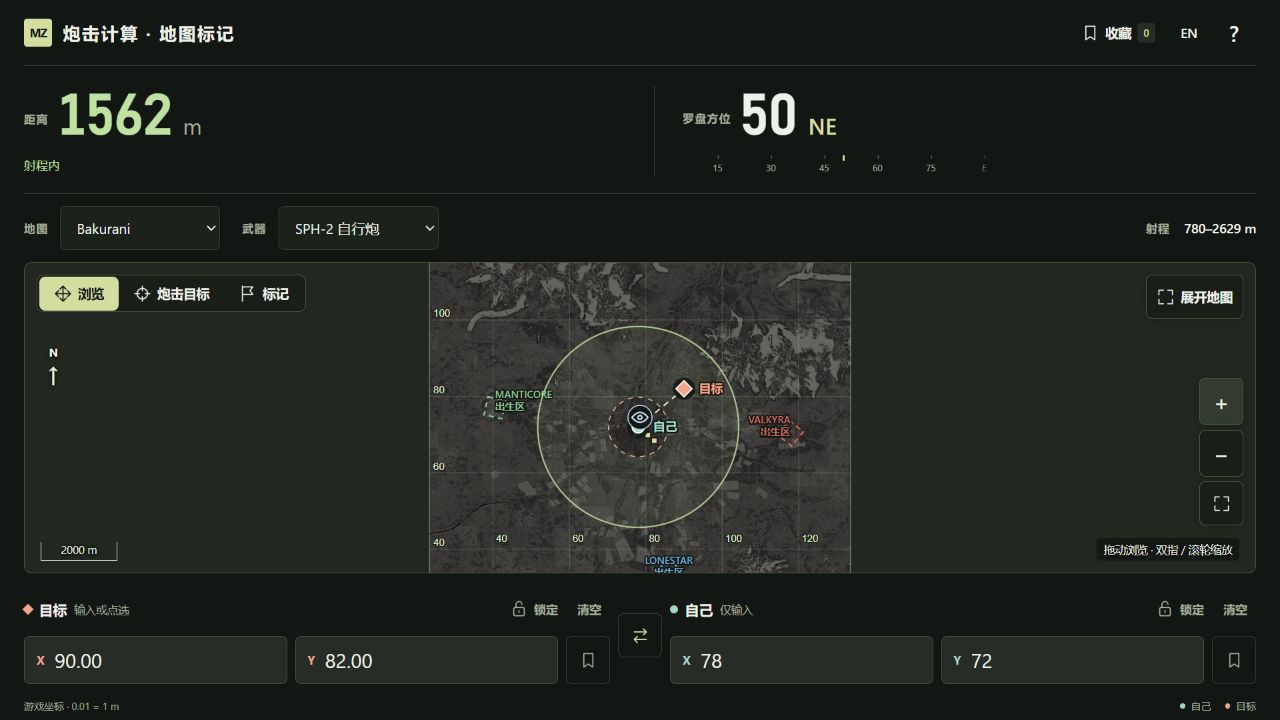
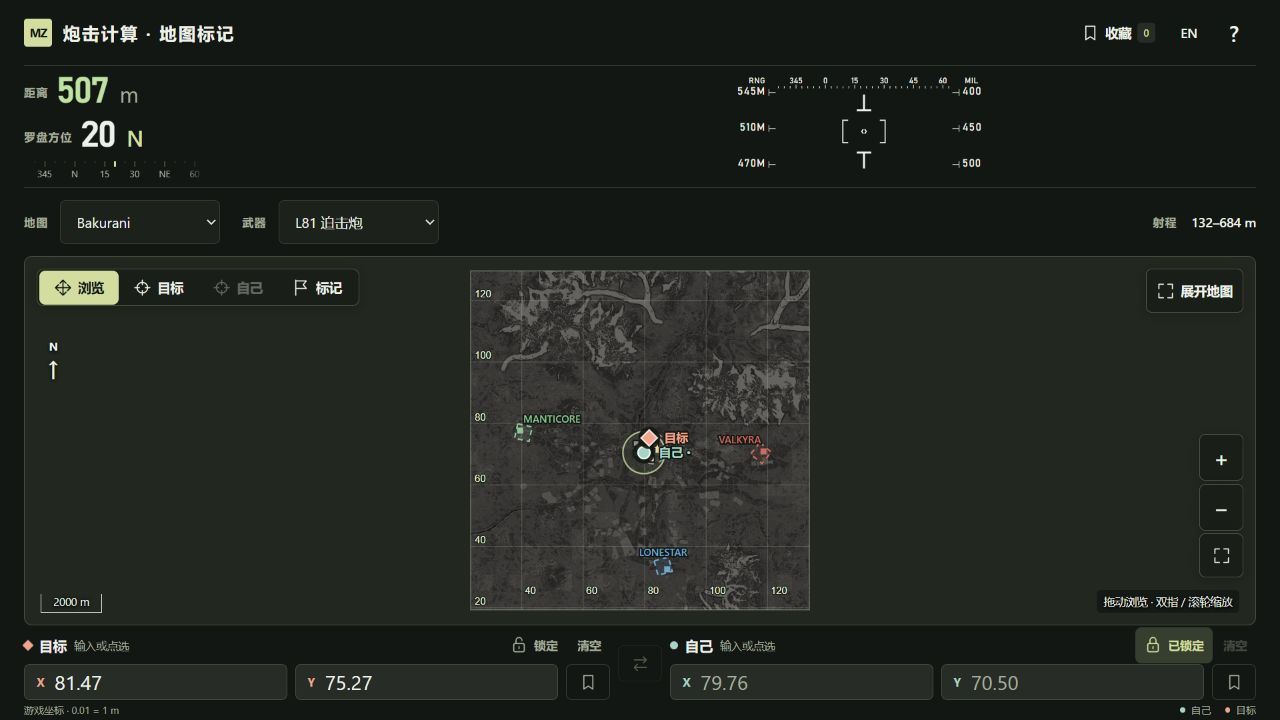
correction

diff --git a/app.js b/app.js
@@ -1,9 +1,9 @@
-import { maps, outsideControlZone, tileBounds, towers, landmarks, controlZones, spawnPoints, spawnAreas, weapons, markerTypes, validMarker, parseCoordinate, validPoint, solution, heading, screenToWorld } from './core.mjs?v=map-calibration-6';
+import { maps, outsideControlZone, tileBounds, towers, landmarks, controlZones, spawnPoints, spawnAreas, weapons, mortarRange, mortarMil, markerTypes, validMarker, parseCoordinate, validPoint, solution, heading, screenToWorld } from './core.mjs?v=mortar-sight-6';
 
 const $ = id => document.getElementById(id);
 const strings = {
   zh: { saved:'收藏',distance:'距离',bearing:'罗盘方位',map:'地图',weapon:'武器',range:'射程',browse:'浏览',place:'炮击目标',expand:'展开地图',collapse:'返回计算',origin:'自己',target:'目标',inputOnly:'仅输入',inputOrMap:'输入或点选',lock:'锁定',locked:'已锁定',clear:'清空',save:'保存',name:'给坐标起个名字',about:'使用说明',coordinateHint:'游戏坐标 · 0.01 = 1 m',localNote:'仅保存在此浏览器，清除网站数据会删除收藏。',help1:'先输入自己坐标，再输入目标，或切换「炮击目标」点选地图。锁定后需先解锁才能修改或清空。',help2:'实线圈是最大射程，虚线圈内是过近区域。距离是平面距离，射程数据为社区参考值。',help3:'浏览模式：拖动、双指或滚轮缩放。键盘：方向键移动，+/− 缩放；放置模式下 Enter 放在地图中心。',help4:'展开地图可专心看图，点位与缩放会保留。收藏按地图分别保存，可载入自己或目标。',attribution:'地图及射程参考',unofficial:'非官方玩家工具。游戏地图与商标归各自权利人所有。',in:'射程内',near:'过近 · 小于最小射程',far:'超出最大射程',empty:'输入自己与目标坐标',same:'同一点 · 无方位',browseHint:'拖动浏览 · 双指 / 滚轮缩放',placeHint:'地图已固定 · 点选目标',lockedHint:'目标已锁定 · 解锁后可放置',invalid:'请输入范围内坐标（最多 2 位小数）',noSaved:'这张地图还没有收藏',loadOrigin:'设为自己',loadTarget:'设为目标',remove:'删除',undo:'撤销',deleted:'已删除收藏',savedDone:'坐标已收藏',storageError:'浏览器无法保存数据；本次操作仍可使用。',storageCorrupt:'本地数据无法读取，原数据已保留。',unlockFirst:'请先解锁这个坐标',outside:'请在地图边界内选择炮击目标',loading:'地图加载中…',mapError:'部分地图图片未能加载，请重试',retry:'重试',yourX:'自己 X',yourY:'自己 Y',targetX:'目标 X',targetY:'目标 Y',saveOrigin:'收藏自己坐标',saveTarget:'收藏目标坐标',zoomIn:'放大',zoomOut:'缩小',fit:'全图',close:'关闭',mapLabel:'地图：方向键浏览，加减号缩放；放置模式按回车选择中心点',rangeCircle:'最大射程',minCircle:'最小射程',badFields:'请检查坐标输入' },
-  en: { saved:'Saved',distance:'DISTANCE',bearing:'BEARING',map:'MAP',weapon:'WEAPON',range:'RANGE',browse:'Browse',place:'Artillery target',expand:'Expand map',collapse:'Back to calculator',origin:'You',target:'Target',inputOnly:'Type only',inputOrMap:'Type or tap',lock:'Lock',locked:'Locked',clear:'Clear',save:'Save',name:'Name this position',about:'How to use',coordinateHint:'Game coordinates · 0.01 = 1 m',localNote:'Saved only in this browser. Clearing site data removes saved positions.',help1:'Enter your position, then enter a target or switch to Artillery target and tap the map. Unlock a position before editing or clearing it.',help2:'The solid circle is maximum range. The dashed circle marks the minimum range. Distance is horizontal; weapon ranges are community reference values.',help3:'Browse: drag, pinch or scroll to zoom. Keyboard: arrows to pan, +/− to zoom; Enter places the target at the map center in placement mode.',help4:'Expand the map to browse with your positions and zoom preserved. Saved positions are grouped by map and can be loaded as you or the target.',attribution:'Maps and range data',unofficial:'Unofficial fan tool. Game maps and trademarks belong to their respective owners.',in:'Within range',near:'Too close · below minimum',far:'Beyond maximum range',empty:'Enter your position and target',same:'Same position · no bearing',browseHint:'Drag to pan · pinch / scroll to zoom',placeHint:'Map fixed · tap to place target',lockedHint:'Target locked · unlock to place',invalid:'Enter coordinates within bounds (up to 2 decimals)',noSaved:'No saved positions on this map',loadOrigin:'Set as you',loadTarget:'Set as target',remove:'Delete',undo:'Undo',deleted:'Position deleted',savedDone:'Position saved',storageError:'Browser storage unavailable; this session still works.',storageCorrupt:'Saved data could not be read. Original data preserved.',unlockFirst:'Unlock this position first',outside:'Place the target within the map boundary',loading:'Loading map…',mapError:'Some map images could not load. Please retry.',retry:'Retry',yourX:'Your X',yourY:'Your Y',targetX:'Target X',targetY:'Target Y',saveOrigin:'Save your position',saveTarget:'Save target position',zoomIn:'Zoom in',zoomOut:'Zoom out',fit:'Fit map',close:'Close',mapLabel:'Map: arrow keys to pan, plus/minus to zoom; Enter places a target at the center in placement mode',rangeCircle:'Maximum range',minCircle:'Minimum range',badFields:'Check coordinate inputs' },
+  en: { saved:'Saved',distance:'DIST',bearing:'BEARING',map:'MAP',weapon:'WEAPON',range:'RANGE',browse:'Browse',place:'Artillery target',expand:'Expand map',collapse:'Back to calculator',origin:'You',target:'Target',inputOnly:'Type only',inputOrMap:'Type or tap',lock:'Lock',locked:'Locked',clear:'Clear',save:'Save',name:'Name this position',about:'How to use',coordinateHint:'Game coordinates · 0.01 = 1 m',localNote:'Saved only in this browser. Clearing site data removes saved positions.',help1:'Enter your position, then enter a target or switch to Artillery target and tap the map. Unlock a position before editing or clearing it.',help2:'The solid circle is maximum range. The dashed circle marks the minimum range. Distance is horizontal; weapon ranges are community reference values.',help3:'Browse: drag, pinch or scroll to zoom. Keyboard: arrows to pan, +/− to zoom; Enter places the target at the map center in placement mode.',help4:'Expand the map to browse with your positions and zoom preserved. Saved positions are grouped by map and can be loaded as you or the target.',attribution:'Maps and range data',unofficial:'Unofficial fan tool. Game maps and trademarks belong to their respective owners.',in:'Within range',near:'Too close · below minimum',far:'Beyond maximum range',empty:'Enter your position and target',same:'Same position · no bearing',browseHint:'Drag to pan · pinch / scroll to zoom',placeHint:'Map fixed · tap to place target',lockedHint:'Target locked · unlock to place',invalid:'Enter coordinates within bounds (up to 2 decimals)',noSaved:'No saved positions on this map',loadOrigin:'Set as you',loadTarget:'Set as target',remove:'Delete',undo:'Undo',deleted:'Position deleted',savedDone:'Position saved',storageError:'Browser storage unavailable; this session still works.',storageCorrupt:'Saved data could not be read. Original data preserved.',unlockFirst:'Unlock this position first',outside:'Place the target within the map boundary',loading:'Loading map…',mapError:'Some map images could not load. Please retry.',retry:'Retry',yourX:'Your X',yourY:'Your Y',targetX:'Target X',targetY:'Target Y',saveOrigin:'Save your position',saveTarget:'Save target position',zoomIn:'Zoom in',zoomOut:'Zoom out',fit:'Fit map',close:'Close',mapLabel:'Map: arrow keys to pan, plus/minus to zoom; Enter places a target at the center in placement mode',rangeCircle:'Maximum range',minCircle:'Minimum range',badFields:'Check coordinate inputs' },
 };
 const storageKey = 'mz-wardogs-v1';
 Object.assign(strings.zh,{appTitle:'炮击计算 · 地图标记',swap:'互换自己与目标坐标',swapLocked:'先解锁坐标再互换'});
@@ -97,7 +97,8 @@ function update() {
   const result = origin && target ? solution(origin,target,weapons[weaponId]) : null;
   $('distance').textContent = result ? String(Math.round(result.distance)) : '—';
   $('distance').closest('.metric').dataset.status = result?.status || '';
-  $('range-status').textContent = result ? (result.bearing === null ? t('same') : t(result.status)) : t(document.querySelector('[aria-invalid=true]') ? 'badFields' : 'empty');
+  $('range-status').textContent = result ? (result.bearing === null ? t('same') : '') : t(document.querySelector('[aria-invalid=true]') ? 'badFields' : 'empty');
+  $('range-status').hidden = !$('range-status').textContent;
   const h = heading(result?.bearing ?? null);
   $('bearing').textContent = h.degrees; $('direction').textContent = h.direction;
   $('compass').replaceChildren();
@@ -110,13 +111,37 @@ function update() {
     $('compass').append(tick);
   }
   $('distance-ruler').replaceChildren();
-  $('distance-ruler').hidden = !result;
-  if(result) for(let value=Math.max(0,Math.round(result.distance/100)*100-200);value<=result.distance+200;value+=100) {
-    const tick=document.createElement('span');
-    tick.className=value%200===0?'major':'minor';
-    tick.style.top=`${50+(result.distance-value)*.17}%`;
-    tick.textContent=value%200===0?String(value):'';
-    $('distance-ruler').append(tick);
+  const mil=result && weaponId==='mortar' ? mortarMil(result.distance) : null;
+  $('distance-ruler').hidden = !result || weaponId!=='mortar';
+  if(result && weaponId==='mortar') {
+    // ponytail: native SVG at screenshot coordinates; no fitted ballistics or extrapolated labels.
+    const first=mil===null ? 150 : Math.max(150,Math.min(850,Math.round(mil/50)*50-50));
+    const top=(mil===null ? 440 : Math.min(440,576+(first-mil)*2.18-24))-24;
+    const bottom=mil===null ? 732 : Math.max(712,576+(first+100-mil)*2.18+24);
+    const sight=svg('svg',{viewBox:`600 ${top} 848 ${bottom-top}`,role:'img','aria-label':lang==='zh' ? 'L81 游戏瞄具刻度' : 'L81 game sight scale'});
+    sight.append(svg('title',{},mil===null ? (lang==='zh' ? '距离超出截图刻度范围（80–684 m）' : 'Outside screenshot scale (80–684 m)') : `${Math.round(result.distance)} m · ${mil.toFixed(1)} MIL`));
+    const compass=svg('g',{class:'sight-compass'});
+    compass.append(svg('text',{class:'sight-unit',x:700,y:top+20,'text-anchor':'middle'},'RNG'),svg('text',{class:'sight-unit',x:1350,y:top+20,'text-anchor':'middle'},'MIL'));
+    for(let angle=Math.ceil((center-45)/3)*3;angle<=center+45;angle+=3) {
+      const x=1024+(angle-center)*5.93, major=angle%15===0;
+      compass.append(svg('path',{class:'sight-tick',d:`M${x} ${top+(major?25:29)}V${top+35}`}));
+      if(major) compass.append(svg('text',{class:'sight-bearing',x,y:top+20,'text-anchor':'middle'},String((angle%360+360)%360)));
+    }
+    sight.append(compass);
+    sight.append(svg('path',{class:'sight-reticle',d:'M1024 464V512 M1002 512h44 M1024 688V640 M1002 640h44'}));
+    sight.append(svg('path',{class:'sight-brackets',d:'M976 542h-16v68h16 M1072 542h16v68h-16 M1022 569l-5 7 5 7 M1026 569l5 7-5 7'}));
+    if(mil!==null) {
+      for(let value=first;value<=first+100;value+=50) {
+        const range=mortarRange(value), y=576+(value-mil)*2.18;
+        const row=svg('g',{'data-mil':value});
+        row.append(svg('text',{x:726,y:y+6,'text-anchor':'end'},range===null?'---':`${range}M`),svg('text',{x:1322,y:y+6},range===null?'---':String(value)));
+        row.append(svg('path',{class:'sight-tick',d:`M736 ${y-10}v20 M736 ${y}h20 M1312 ${y-10}v20 M1312 ${y}h-20`}));
+        sight.append(row);
+      }
+    } else {
+      sight.append(svg('text',{class:'sight-unavailable',x:1024,y:710,'text-anchor':'middle'},lang==='zh'?'超出截图刻度范围':'Outside captured scale'));
+    }
+    $('distance-ruler').append(sight);
   }
   $('weapon-range').textContent = `${weapons[weaponId].min}–${weapons[weaponId].max} m`;
   $('saved-count').textContent = saved.filter(p => p.mapId === mapId).length;

diff --git a/panda-skateboard.html b/panda-skateboard.html
@@ -1,0 +1,111 @@
+<!doctype html>
+<html lang="zh-CN">
+<meta charset="utf-8">
+<meta name="viewport" content="width=device-width, initial-scale=1">
+<title>熊猫滑板日记</title>
+<style>
+  * { box-sizing: border-box; }
+  body { margin: 0; min-height: 100svh; display: grid; place-items: center; background: #edf1e9; color: #253c35; font-family: system-ui, "Microsoft YaHei", sans-serif; padding: 24px; }
+  main { width: min(100%, 1060px); position: relative; overflow: hidden; border-radius: 28px; background: #f9f7ee; box-shadow: 0 24px 80px #233d3410; }
+  header { position: absolute; z-index: 1; top: 32px; left: 38px; right: 38px; display: flex; justify-content: space-between; align-items: center; gap: 16px; font-size: 13px; letter-spacing: 2px; }
+  header span:last-child { font-size: 10px; letter-spacing: 3px; }
+  h1 { position: absolute; top: 87px; left: 38px; z-index: 1; margin: 0; font-size: clamp(24px, 4.2vw, 46px); font-weight: 800; letter-spacing: -2px; line-height: 1.3; }
+  h1 small { display: block; margin-top: 14px; font-size: 11px; font-weight: 500; letter-spacing: 3px; }
+  svg { display: block; width: 100%; height: auto; }
+  footer { display: flex; align-items: center; justify-content: space-between; padding: 18px 38px 25px; gap: 16px; font-size: 12px; }
+  footer p { margin: 0; letter-spacing: 1px; }
+  .pause { display: inline-flex; align-items: center; gap: 8px; cursor: pointer; padding: 10px 14px; border: 1px solid #c5d1c5; border-radius: 30px; white-space: nowrap; }
+  input { accent-color: #2b6957; width: 16px; height: 16px; margin: 0; }
+  main:has(input:checked) svg * { animation-play-state: paused !important; }
+  .rider { animation: cruise 3s ease-in-out infinite; transform-origin: 525px 465px; }
+  .body { animation: bob 1.4s ease-in-out infinite; transform-origin: 527px 419px; }
+  .head { animation: nod 1.4s ease-in-out infinite; transform-origin: 546px 287px; }
+  .kick { animation: push 3s ease-in-out infinite; transform-origin: 498px 363px; }
+  .scarf { animation: flutter .7s ease-in-out infinite alternate; transform-origin: 493px 292px; }
+  .wheel { transform-box: fill-box; transform-origin: center; animation: spin .65s linear infinite; }
+  .road { animation: roll 1.15s linear infinite; }
+  .trees { animation: roll 10s linear infinite; }
+  .cloud { animation: drift 8s ease-in-out infinite alternate; }
+  .wind { animation: wind 1.5s ease-out infinite; }
+  .shadow { animation: shadow 3s ease-in-out infinite; transform-origin: 530px 488px; }
+  @keyframes spin { to { transform: rotate(360deg); } }
+  @keyframes roll { to { transform: translateX(-400px); } }
+  @keyframes cruise { 0%, 100% { transform: translateX(-8px) rotate(-1deg); } 50% { transform: translateX(12px) rotate(1deg); } }
+  @keyframes bob { 0%, 100% { transform: translateY(0); } 50% { transform: translateY(5px); } }
+  @keyframes nod { 0%, 100% { transform: rotate(-3deg); } 50% { transform: rotate(2deg); } }
+  @keyframes push { 0%, 12%, 80%, 100% { transform: rotate(0); } 35% { transform: rotate(28deg); } 55% { transform: rotate(42deg); } }
+  @keyframes flutter { to { transform: rotate(-9deg) scaleX(.94); } }
+  @keyframes drift { to { transform: translateX(-25px); } }
+  @keyframes wind { 0% { opacity: 0; transform: translateX(20px); } 30% { opacity: .7; } 100% { opacity: 0; transform: translateX(-65px); } }
+  @keyframes shadow { 50% { transform: translateX(12px) scaleX(.95); opacity: .65; } }
+  @media (prefers-reduced-motion: reduce) { svg * { animation: none !important; } }
+  @media (max-width: 600px) { body { padding: 12px; } main { border-radius: 20px; } header { top: 20px; left: 22px; right: 22px; font-size: 10px; } header span:last-child { font-size: 8px; letter-spacing: 1px; } h1 { top: 62px; left: 22px; font-size: 25px; } h1 small { font-size: 8px; margin-top: 7px; letter-spacing: 1px; } footer { padding: 14px 20px 20px; font-size: 10px; } svg { min-height: 390px; object-fit: cover; } }
+</style>
+<main>
+  <header><span>● 熊猫滑板日记</span><span>PANDA SKATE CLUB / 001</span></header>
+  <h1>风里，有点快乐。<small>LESS HURRY. MORE ROLLING.</small></h1>
+  <svg viewBox="0 0 1060 580" role="img" aria-labelledby="scene-title scene-desc">
+    <title id="scene-title">熊猫在公园里滑滑板</title>
+    <desc id="scene-desc">戴绿色头盔、系橙色围巾的熊猫一脚站在滑板上，一脚周期性向后蹬地。滑轮转动，树木和路面向后移动。</desc>
+    <defs>
+      <linearGradient id="sky" x2="0" y2="1"><stop stop-color="#e5efe4"/><stop offset="1" stop-color="#f0f3e4"/></linearGradient>
+      <linearGradient id="helmet" x2=".8" y2="1"><stop stop-color="#67a991"/><stop offset="1" stop-color="#34755f"/></linearGradient>
+      <g id="tree"><path d="M53 390V308" stroke="#9db7a0" stroke-width="5"/><path d="M53 273C12 302 8 351 53 350C96 351 96 309 53 273" fill="#bfd2b8"/><path d="M53 322l-15-12m15 24 16-16" stroke="#a1bc9e" stroke-width="3" fill="none"/></g>
+      <g id="road-mark" stroke="#c5c9b9" stroke-width="3" stroke-linecap="round"><path d="M0 511h74m150 34h33m100-48h22"/></g>
+    </defs>
+    <path d="M0 0h1060v426H0z" fill="url(#sky)"/>
+    <circle cx="823" cy="148" r="59" fill="#efb889"/>
+    <circle cx="823" cy="148" r="77" fill="none" stroke="#efb889" stroke-opacity=".2"/>
+    <g class="cloud" fill="#fffdf5" opacity=".85"><path d="M662 131c-20-1-21-24-1-29 3-30 44-34 54-8 24-13 41 8 35 22 19-1 23 15 9 15z"/><path d="M882 244c-15 0-18-20 0-22 3-24 32-26 41-8 16-8 30 5 25 15 19 0 19 15 6 15z"/></g>
+    <path d="M0 363Q150 286 306 356T620 338T1060 329V441H0" fill="#d2dfc7"/>
+    <path d="M0 391Q203 341 371 392T717 371T1060 373V447H0" fill="#bbd0b1"/>
+    <g class="trees" opacity=".8"><use href="#tree" x="-100"/><use href="#tree" x="100"/><use href="#tree" x="300"/><use href="#tree" x="500"/><use href="#tree" x="700"/><use href="#tree" x="900"/><use href="#tree" x="1100"/><use href="#tree" x="1300"/></g>
+    <path d="M0 421Q460 403 1060 422V580H0" fill="#f9f7ee"/>
+    <path d="M0 440H1060" stroke="#d9ddca" stroke-width="2"/>
+    <g class="road"><use href="#road-mark"/><use href="#road-mark" x="400"/><use href="#road-mark" x="800"/><use href="#road-mark" x="1200"/></g>
+    <ellipse class="shadow" cx="530" cy="488" rx="133" ry="12" fill="#a4b19c" opacity=".4"/>
+    <g class="wind" fill="none" stroke="#729786" stroke-width="3" stroke-linecap="round"><path d="M344 294h64m-83 18h48m-31 71h40"/></g>
+    <g class="rider">
+      <!-- The rider and deck share one transform so the planted foot stays on the board. -->
+      <g stroke="#283b35" stroke-linejoin="round">
+        <path d="M464 451l-5 21m125-21 5 21" stroke-width="7"/>
+        <g class="wheel"><circle cx="459" cy="474" r="15" fill="#e9af74" stroke-width="4"/><path d="M459 465v18m-9-9h18" stroke-width="2"/><circle cx="459" cy="474" r="4" fill="#283b35" stroke="none"/></g>
+        <g class="wheel"><circle cx="589" cy="474" r="15" fill="#e9af74" stroke-width="4"/><path d="M589 465v18m-9-9h18" stroke-width="2"/><circle cx="589" cy="474" r="4" fill="#283b35" stroke="none"/></g>
+        <path d="M420 438q6 14 28 15h154q21 0 33-17l-6-6q-12 11-29 11H449q-13 0-22-10z" fill="#df7959" stroke-width="4"/>
+        <path d="M439 440h164" stroke="#f8cc95" stroke-width="3"/>
+      </g>
+      <path d="M549 354q29 9 22 42l-5 26 25 4q13 7 7 15h-56q-12-3-10-16l3-50z" fill="#283932"/>
+      <g class="kick"><path d="M489 350q-23 9-18 41l-1 31-20 4q-14 4-12 15h48q13-1 14-15l11-43z" fill="#283932"/><path d="M446 434h32" stroke="#617367" stroke-width="3" stroke-linecap="round"/></g>
+      <g class="body">
+        <ellipse cx="488" cy="349" rx="16" ry="17" fill="#fffdf5" stroke="#283932" stroke-width="3"/>
+        <path d="M499 274c-22 21-33 54-22 86 11 35 70 39 94 13 19-22 12-67-13-93z" fill="#fffdf5" stroke="#283932" stroke-width="4"/>
+        <path d="M493 285q-15 13-14 40 39 22 95-3-2-24-20-38z" fill="#283932"/>
+        <path d="M552 298q27 5 50 27 12 11 4 22-10 13-23 3l-46-24" fill="#283932"/>
+        <path d="M496 299q-20 1-39 22l-24 7q-12 6-7 17 6 11 20 6l30-8 25-17" fill="#283932"/>
+        <path d="M535 358q16 3 27-8" fill="none" stroke="#e0e4d8" stroke-width="4" stroke-linecap="round"/>
+        <g class="scarf"><path d="M506 282q-39 6-70-11l6 18-21 5q42 19 83 0" fill="#db7855"/><path d="M490 285q-25 13-47 11" fill="none" stroke="#b95a43" stroke-width="3"/></g>
+        <path d="M493 280q32 13 64-2l5 14q-32 18-70 1z" fill="#ea9067"/>
+        <g class="head">
+          <circle cx="491" cy="194" r="24" fill="#283932"/>
+          <circle cx="588" cy="199" r="23" fill="#283932"/>
+          <path d="M484 218c-11 22-10 46 7 59 26 21 81 22 105-2 15-15 10-43-3-63-28-25-80-24-109 6z" fill="#fffdf5" stroke="#283932" stroke-width="4"/>
+          <ellipse cx="516" cy="243" rx="17" ry="22" transform="rotate(24 516 243)" fill="#283932"/>
+          <ellipse cx="574" cy="243" rx="16" ry="21" transform="rotate(-22 574 243)" fill="#283932"/>
+          <ellipse cx="521" cy="240" rx="5" ry="7" fill="#fffdf5"/><ellipse cx="578" cy="240" rx="5" ry="7" fill="#fffdf5"/>
+          <circle cx="523" cy="242" r="3" fill="#283932"/><circle cx="580" cy="242" r="3" fill="#283932"/>
+          <ellipse cx="498" cy="263" rx="10" ry="5" fill="#edba9f"/><ellipse cx="590" cy="263" rx="10" ry="5" fill="#edba9f"/>
+          <path d="M538 258q9-6 18 0-1 9-9 9t-9-9" fill="#283932"/>
+          <path d="M547 267v5m-11 0q11 13 23-1" fill="none" stroke="#283932" stroke-width="3" stroke-linecap="round"/>
+          <path d="M481 215c-5-38 22-65 57-65 38 0 62 25 63 64-41-9-78-8-120 1z" fill="url(#helmet)" stroke="#283932" stroke-width="4"/>
+          <path d="M478 216q62-13 127 1" fill="none" stroke="#283932" stroke-width="7" stroke-linecap="round"/>
+          <path d="M503 189q5-13 16-18" stroke="#b4d9ba" stroke-width="7" stroke-linecap="round" fill="none"/>
+          <path d="M540 166v16m18-12 4 15" stroke="#285b4a" stroke-width="5" stroke-linecap="round"/>
+          <rect x="570" y="190" width="17" height="11" rx="5" fill="#f6d88e" transform="rotate(12 570 190)"/>
+        </g>
+      </g>
+    </g>
+    <g fill="#63896c"><path d="M863 427q-3-19-12-24 0 17 12 24m0 0q1-24 12-31 3 19-12 31"/><path d="M188 422q-3-14-10-19 0 12 10 19m0 0q1-18 9-23 3 14-9 23"/></g>
+  </svg>
+  <footer><p>不赶路，感受路。 🐾</p><label class="pause"><input type="checkbox" aria-label="暂停动画">暂停动画</label></footer>
+</main>
+</html>

diff --git a/tests/coordinate-swap.html b/tests/coordinate-swap.html
@@ -25,8 +25,24 @@ try {
   await new Promise(resolve => frame.contentWindow.requestAnimationFrame(resolve));
   const ruler = doc.querySelector('#distance-ruler');
   check(!ruler.hidden, 'Distance ruler is shown for valid coordinates');
-  check([...ruler.querySelectorAll('.major')].map(t=>t.textContent).join(',') === '400,600', 'Range labels every 200 m');
-  check(ruler.querySelector('.minor[style="top: 50%;"]'), '500 m minor tick aligns with the center');
+  check([...ruler.querySelectorAll('[data-mil]')].map(t=>t.textContent).join(',') === '545M400,510M450,470M500', '500 m shows the nearest three captured MIL rows');
+  check(!ruler.querySelector('.sight-distance'), 'No invented horizontal center line');
+  check(!ruler.querySelector('.sight-frame'), 'No corner frame');
+  const units=[...ruler.querySelectorAll('.sight-compass .sight-unit')];
+  check(units.map(unit=>unit.textContent).join(',')==='RNG,MIL', 'Units sit in the compass header');
+  check(units.every(unit=>unit.getAttribute('y')===ruler.querySelector('.sight-bearing').getAttribute('y')), 'Compass and units share one line');
+  for (const [distance,mil,label] of [[684,150,'684M'],[385,600,'385M'],[110,900,'110M'],[80,950,'80M']]) {
+    input('target-x',String(100+distance/100)); input('target-y','80');
+    const row=ruler.querySelector(`[data-mil="${mil}"]`);
+    check(ruler.querySelectorAll('[data-mil]').length===3, 'Exactly three scale rows, including endpoints');
+    check(doc.querySelector('#range-status').hidden, 'Range status text is hidden for valid distinct points');
+    check(row?.querySelector('text').textContent===label, `Original label at ${mil} MIL`);
+    check(Math.abs(Number(row.querySelector('text').getAttribute('y'))-582)<1e-8, 'Requested distance sits at the sight center');
+  }
+  input('target-x','107');
+  check(doc.querySelector('#range-status').hidden, 'Out-of-range status text is hidden');
+  check(ruler.querySelector('.sight-unavailable') && !ruler.querySelector('[data-mil]'), 'Outside captured range does not fabricate ticks');
+  input('target-x','103'); input('target-y','84');
   check(doc.querySelectorAll('#compass .minor').length > 0, 'Compass includes 5 degree minor ticks');
   check([...doc.querySelectorAll('#compass .major')].some(t=>t.textContent==='NE'), 'Compass labels intercardinal directions');
   const fill = doc.querySelector('#range-fill');
@@ -61,11 +77,26 @@ try {
       measure.font = frame.contentWindow.getComputedStyle(field).font;
       check(field.clientWidth >= measure.measureText('100.00').width + 1, 'Three-digit coordinates with two decimals must fit');
     }
+    input('target-x','103.85');
+    check(rect('.distance-metric').bottom <= rect('.bearing-metric').top, 'Mortar distance and compass stack on the left');
+    check(rect('.distance-metric').right <= rect('#distance-ruler').left && rect('.bearing-metric').right <= rect('#distance-ruler').left, 'Mortar sight occupies the right column');
+    const sight=doc.querySelector('#distance-ruler svg');
+    const view=sight.viewBox.baseVal;
+    check(Math.abs(sight.clientWidth/sight.clientHeight-view.width/view.height)<.05, 'Mobile sight keeps original proportions');
+    check(rect('.readout').height<140, 'Compact mobile readout leaves room for the map');
+    for(const metric of ['.distance-metric','.bearing-metric']) {
+      check(rect(metric+' > .eyebrow').right<=rect(metric+' > .metric-value').left, 'Metric labels sit beside their numbers');
+    }
+    for (const label of sight.querySelectorAll('text')) {
+      const box=label.getBBox();
+      check(box.x>=view.x && box.x+box.width<=view.x+view.width && box.y>=view.y && box.y+box.height<=view.y+view.height, `Sight text stays inside the viewport: ${label.textContent} (${box.x}, ${box.y}, ${box.width}, ${box.height})`);
+    }
+    input('target-x','100.00');
   }
   click('origin-clear'); input('target-x','invalid'); input('target-y',''); click('swap-coordinates');
   check(doc.querySelector('#origin-x').value === 'invalid' && doc.querySelector('#origin-x').getAttribute('aria-invalid') === 'true' && doc.querySelector('#target-x').value === '', 'Partial or invalid inputs must be preserved and revalidated');
   click('origin-clear'); check(doc.querySelector('#swap-coordinates').disabled, 'Empty coordinates have nothing to swap');
-  result.textContent = 'PASS: range annulus, swapping, calculation, persistence, locks, partial input, and desktop/mobile layout.';
+  result.textContent = 'PASS: screenshot sight labels, endpoints, no extrapolation, mobile SVG bounds, range annulus, swapping, persistence, locks, and desktop/mobile layout.';
 } catch (error) { result.textContent = `FAIL: ${error.message}`; throw error; }
 finally {
   if (stored === null) localStorage.removeItem('mz-wardogs-v1'); else localStorage.setItem('mz-wardogs-v1',stored);

diff --git a/style.css b/style.css
@@ -49,11 +49,25 @@ dialog #toast{position:sticky;left:auto;bottom:0;transform:none;max-width:100%;m
 @media(max-width:700px){.map-tools{flex-direction:column}.map-tools .mode-switch button{padding:4px 7px}.map-tools .mode-switch .icon{display:none}}
 
 .compass span.minor:before{height:2px;opacity:.6}.compass span.major:before{height:5px}
-.distance-metric{grid-template-columns:auto minmax(0,1fr) 56px}
-.distance-ruler{grid-column:3;grid-row:1/3;align-self:center;position:relative;height:100px;overflow:hidden;color:var(--muted);font:10px/1 monospace;mask-image:linear-gradient(transparent,#000 12%,#000 88%,transparent)}
-.distance-ruler span{position:absolute;right:9px;transform:translateY(-50%);padding-right:14px}
-.distance-ruler span:after{content:'';position:absolute;right:0;top:50%;width:7px;border-top:1px solid #738169}
-.distance-ruler span.major:after{width:11px}
-.distance-ruler:after{content:'';position:absolute;right:0;top:50%;width:9px;border-top:2px solid var(--accent)}
-.distance-metric>.status{grid-column:1/3}
-@media(max-width:700px){.distance-metric{grid-template-columns:minmax(0,1fr) 42px;column-gap:3px}.distance-metric>.eyebrow{grid-column:1;grid-row:1}.distance-metric>.metric-value{grid-column:1;grid-row:2;gap:3px}.distance-metric>.status{grid-column:1/-1;grid-row:3}.distance-ruler{grid-column:2;grid-row:1/3;height:64px;font-size:8px}.distance-ruler span{right:7px;padding-right:10px}.distance-ruler span.major:after{width:8px}.distance-ruler span:after{width:5px}.distance-ruler:after{width:7px}}
+.readout:has(.distance-ruler:not([hidden])){grid-template-columns:minmax(130px,.55fr) minmax(0,1fr);gap:4px 16px;padding-block:6px}
+.readout:has(.distance-ruler:not([hidden]))>.metric{grid-column:1;grid-template-columns:auto minmax(0,1fr);align-self:center;min-width:0}
+.readout:has(.distance-ruler:not([hidden]))>.metric>.eyebrow{grid-column:1;grid-row:1}
+.readout:has(.distance-ruler:not([hidden]))>.metric>.metric-value{grid-column:2;grid-row:1}
+.readout:has(.distance-ruler:not([hidden]))>.distance-metric{grid-row:1}
+.readout:has(.distance-ruler:not([hidden]))>.bearing-metric{grid-row:2;padding-left:0;border-left:0}
+.readout:has(.distance-ruler:not([hidden])) .metric-value output{font-size:36px}
+.readout:has(.distance-ruler:not([hidden])) .compass{max-width:180px}
+.distance-ruler{align-self:center;width:100%;color:var(--ink);font:32px "Bahnschrift","Arial Narrow",monospace;letter-spacing:2px}
+.distance-ruler svg{display:block;width:100%;height:auto;fill:currentColor}
+.distance-ruler path{fill:none;stroke:currentColor}
+.sight-reticle{stroke-width:6}.sight-brackets{stroke-width:3.5}.sight-tick{stroke-width:2}
+.sight-unit{font-size:24px;letter-spacing:1px}.sight-bearing{font-size:24px;letter-spacing:0}.sight-unavailable{font-size:26px;letter-spacing:0}
+.distance-ruler{grid-column:2;grid-row:1/3;max-width:280px;justify-self:center}
+.coordinates{padding:2px 0 0}
+.coordinate-heading{margin-bottom:1px}
+.coordinate-inputs label,.save-point{height:36px}
+.coordinate-inputs input{padding:4px 0}
+.coordinates button{min-height:36px}
+.point-actions button{padding-block:4px}
+footer{min-height:20px}
+@media(max-width:700px){.readout:has(.distance-ruler:not([hidden])){gap:4px 6px;padding-block:4px}.readout:has(.distance-ruler:not([hidden])) .metric-value{gap:4px}.readout:has(.distance-ruler:not([hidden])) .metric-value output{font-size:28px}.readout:has(.distance-ruler:not([hidden])) .unit,.readout:has(.distance-ruler:not([hidden])) .direction{font-size:14px}}

diff --git a/index.html b/index.html
@@ -9,8 +9,8 @@
   <title>炮击计算 · 地图标记 | WARDOGS</title>
   <link rel="canonical" href="https://mqzh.science/wdtool/">
   <link rel="icon" href="./favicon.svg" type="image/svg+xml">
-  <link rel="stylesheet" href="./style.css?v=spacing-3">
-  <script type="module" src="./app.js?v=copy-8"></script>
+  <link rel="stylesheet" href="./style.css?v=sight-text-11">
+  <script type="module" src="./app.js?v=mortar-sight-9"></script>
 </head>
 <body>
 <main id="app">
@@ -24,7 +24,8 @@
   </header>
 
   <section class="readout" aria-label="计算结果 / Firing information">
-    <div class="metric distance-metric"><span class="eyebrow" data-i18n="distance">距离</span><div class="metric-value"><output id="distance">—</output><span class="unit">m</span></div><div id="distance-ruler" class="distance-ruler" aria-hidden="true" hidden></div><span id="range-status" class="status" role="status">输入自己与目标坐标</span></div>
+    <div class="metric distance-metric"><span class="eyebrow" data-i18n="distance">距离</span><div class="metric-value"><output id="distance">—</output><span class="unit">m</span></div><span id="range-status" class="status" role="status">输入自己与目标坐标</span></div>
+    <div id="distance-ruler" class="distance-ruler" hidden></div>
     <div class="metric bearing-metric"><span class="eyebrow" data-i18n="bearing">罗盘方位</span><div class="metric-value"><output id="bearing">—</output><span id="direction" class="direction">—</span></div><div id="compass" class="compass" aria-hidden="true"></div></div>
   </section>
 

diff --git a/README.md b/README.md
@@ -8,15 +8,15 @@
 
 ## 实际截图
 
-桌面端：距离、罗盘方位与射程状态一目了然，地图同步显示自己、目标和最小 / 最大射程圈。
+桌面端：左侧叠放距离与罗盘，右侧瞄具显示三档刻度；紧凑结果区和坐标输入区为地图留出更多空间。
 
-![桌面端：Bakurani 地图上的 SPH-2 计算结果，距离 1562 米、方位 50 NE，目标在射程内](docs/screenshots/desktop.png)
+![桌面端：Bakurani 地图上的 L81 迫击炮专用界面，距离 507 米、方位 20 N，右侧显示放大文字的三档瞄具刻度](docs/screenshots/desktop.png)
 
 | 手机端 · 炮击计算 | 手机端 · 展开地图与标记 |
 | --- | --- |
-| <img src="docs/screenshots/mobile.png" alt="手机计算界面：L81 迫击炮距离 500 米、方位 37 NE，三位数坐标完整显示，左侧按钮可互换自己与目标" width="390"> | <img src="docs/screenshots/mobile-map.png" alt="手机展开地图：地图标记与环形射程区域同时显示" width="390"> |
+| <img src="docs/screenshots/mobile.png" alt="手机计算界面：L81 迫击炮距离 507 米、方位 20 N，瞄具显示三档刻度，底部坐标区紧凑排列" width="390"> | <img src="docs/screenshots/mobile-map.png" alt="手机展开地图：保留自己、目标和环形射程区域，收起计算读数与坐标输入" width="390"> |
 
-截图取自本项目实际运行界面（2026-09-14），使用示例坐标。地图影像归 BULKHEAD / 相应权利人所有，详见 [第三方声明](THIRD_PARTY_NOTICES.md)。
+截图取自本项目实际运行界面（2026-09-15），桌面为 1280×720，手机为 390×844。地图影像归 BULKHEAD / 相应权利人所有，详见 [第三方声明](THIRD_PARTY_NOTICES.md)。
 
 ## 本地运行
 
@@ -41,7 +41,7 @@ node scripts/vendor-maps.mjs --verify
 - 独立锁定保护输入、清空与载入；自己的锁不会影响目标。换图保留各地图独立状态。
 - 坐标使用游戏 X/Y：X 向东增加，Y 向北增加，0.01 = 1 m。支持小数点 / 小数逗号，最多两位小数；越界不截断、不用于计算。
 - 平面距离以米显示；方位使用游戏 HUD 的整数角度 + 方向字母，如 `253 W`。北 0，东 90，南 180，西 270。同一点不显示虚假方位。
-- 射程内绿色，过近 / 超射程红色，同时显示文字。实线最大射程圈、虚线最小射程圈以自己为中心；只填色两圈之间的有效射程，内圈过近区域与外圈之外不填色。
+- 距离数字在射程内为绿色，过近 / 超射程为红色，不再显示射程状态文字。实线最大射程圈、虚线最小射程圈以自己为中心；只填色两圈之间的有效射程，内圈过近区域与外圈之外不填色。
 - 「展开地图」收起计算与输入，保留位置与缩放；仍可选择地图。
 - 收藏使用 localStorage（比 cookie 更适合不需要服务器的本地数据），按地图分类；可以命名、载入自己 / 目标、删除和限时撤销。清除网站数据会清除收藏。
 - 键盘：地图聚焦后方向键平移，+/− 缩放；放置模式下 Enter 放在中心。原生对话框支持 Escape 关闭。
@@ -166,6 +166,34 @@ WARDOGS 名称、商标、地图影像及其他游戏素材归各自权利人所
 | SPH-2 | 780–2629 m |
 
 以上武器射程对应「致谢与来源」中引用的提交版本。射程为社区参考值，尚未经本项目实测。计算使用平面距离，不包含地形高度和仰角修正。
+
+L81 使用紧凑专用布局：左侧上方是距离、下方是罗盘，右侧为等比例瞄具，桌面与手机均如此；SPH-2 保留普通布局。瞄具左列为 RNG（米），右列为 MIL；每 50 MIL 等距排列。以下完整 17 档逐项抄录自用户提供的七张游戏截图 `20260915002345_1.jpg`、`20260915002349_1.jpg`、`20260915002352_1.jpg`、`20260915002358_1.jpg`、`20260915002401_1.jpg`、`20260915002404_1.jpg`、`20260915002406_1.jpg`：
+
+| 距离 (m) | MIL |
+| --- | --- |
+| 684 | 150 |
+| 661 | 200 |
+| 637 | 250 |
+| 609 | 300 |
+| 578 | 350 |
+| 545 | 400 |
+| 510 | 450 |
+| 470 | 500 |
+| 430 | 550 |
+| 385 | 600 |
+| 340 | 650 |
+| 290 | 700 |
+| 240 | 750 |
+| 187 | 800 |
+| 132 | 850 |
+| 110 | 900 |
+| 80 | 950 |
+
+按截图的 2048×1152 坐标重绘：中心 (1024,576)，上下 T 横线 y=512/640，两侧括号 x=960/1088，RNG/MIL 刻线 x=736/1312，每 50 MIL 约隔 109 像素。紧凑视窗仅显示最近的三档已知刻度，端点处使用首三档或末三档；保留 T 形、括号和中央断开菱形，去掉四角框；RNG/MIL 与瞄具顶部方位尺同行，分别位于其左右两侧。整幅等比例缩放，文字为网页可读性适当放大。目标距离对应准星，刻度随距离上下移动。左侧距离、罗盘标签各自与数字同行，压缩结果区高度，为地图留出空间。
+
+仅在相邻截图读数之间线性插值，用于定位中心；刻线上的数字始终使用上述原始读数。80–684 m（950–150 MIL）以外不外推，显示“超出截图刻度范围”。这些是游戏瞄具标签，并非实际命中测试；80/110 m 标签不自动改变上方独立的社区参考射程 132–684 m。SPH-2 不显示此瞄具。
+
+MIL 在此沿用游戏标签；毫弧度（mrad）是角度单位，1 mrad = 0.001 rad（[NIST SI 单位与前缀](https://www.nist.gov/pml/special-publication-811/nist-guide-si-chapter-4-two-classes-si-units-and-si-prefixes)）。角度单位定义不等于游戏的射程换算公式。
 
 罗盘外观参考 [游戏 HUD 截图](https://wardogsgame.net/media/wardogs/field-05.jpg)（画面顶端为 `253 W`）及 [Steam 游戏页](https://store.steampowered.com/app/1867240/WARDOGS/)。采用同样的度数加字母格式，未复制 HUD 美术素材。
 
